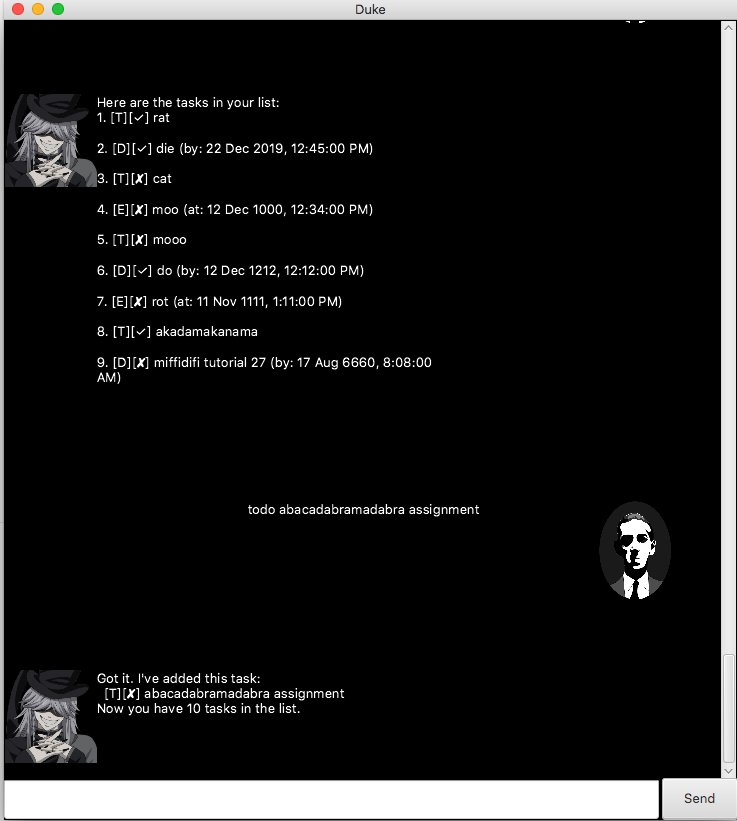
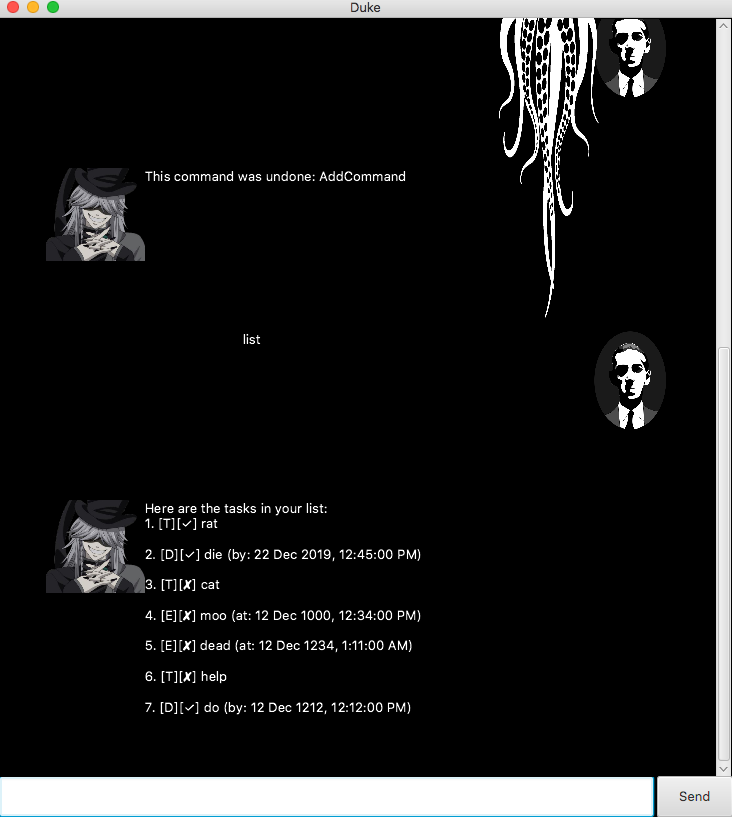
Fix bug with welcome message display. Updated UI and Ui.png.

diff --git a/src/main/java/duke/app/Main.java b/src/main/java/duke/app/Main.java
@@ -4,6 +4,8 @@ import duke.ui.MainWindow;
 import javafx.application.Application;
 import javafx.fxml.FXMLLoader;
 import javafx.scene.Scene;
+import javafx.scene.image.Image;
+import javafx.scene.image.ImageView;
 import javafx.scene.layout.AnchorPane;
 import javafx.stage.Stage;
 
@@ -26,6 +28,16 @@ public class Main extends Application {
             FXMLLoader fxmlLoader = new FXMLLoader(Main.class.getResource("/view/MainWindow.fxml"));
             stage.setTitle("Duke");
             AnchorPane ap = fxmlLoader.load();
+
+            Image img = new Image(this.getClass().getResourceAsStream("/images/tentacle.png"));
+            ImageView imgView = new ImageView(img);
+            imgView.setFitHeight(300);
+            imgView.setFitWidth(100);
+            imgView.setX(500);
+            imgView.setY(0);
+
+            ap.getChildren().add(imgView);
+
             Scene scene = new Scene(ap);
             stage.setScene(scene);
             fxmlLoader.<MainWindow>getController().setDuke(duke);
